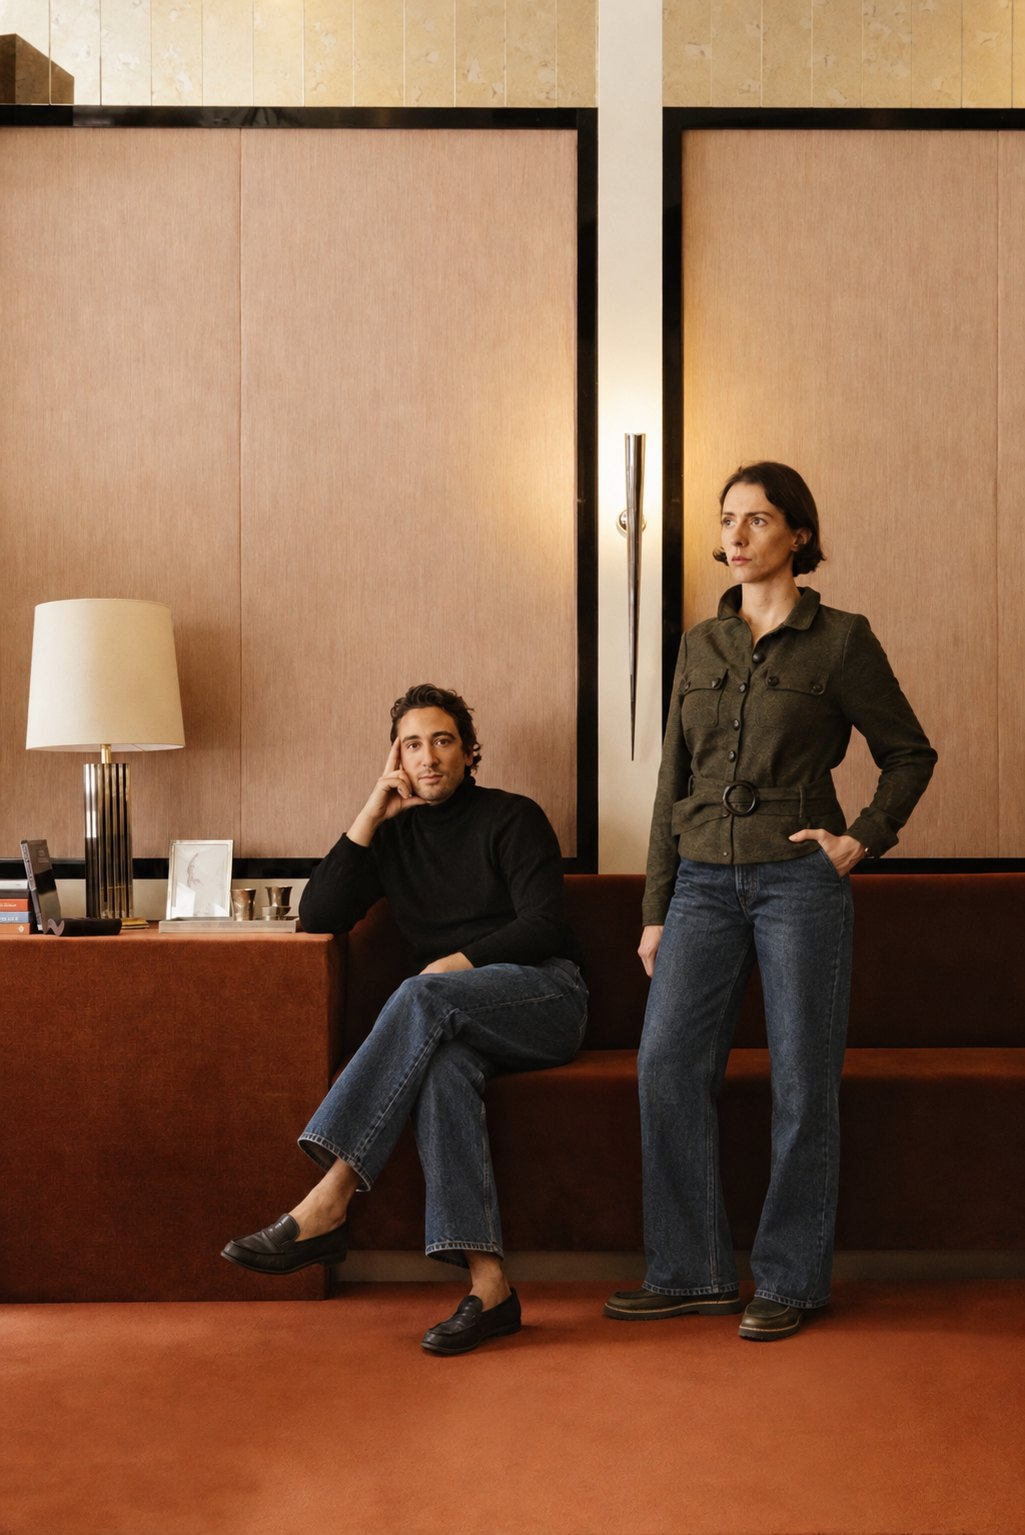
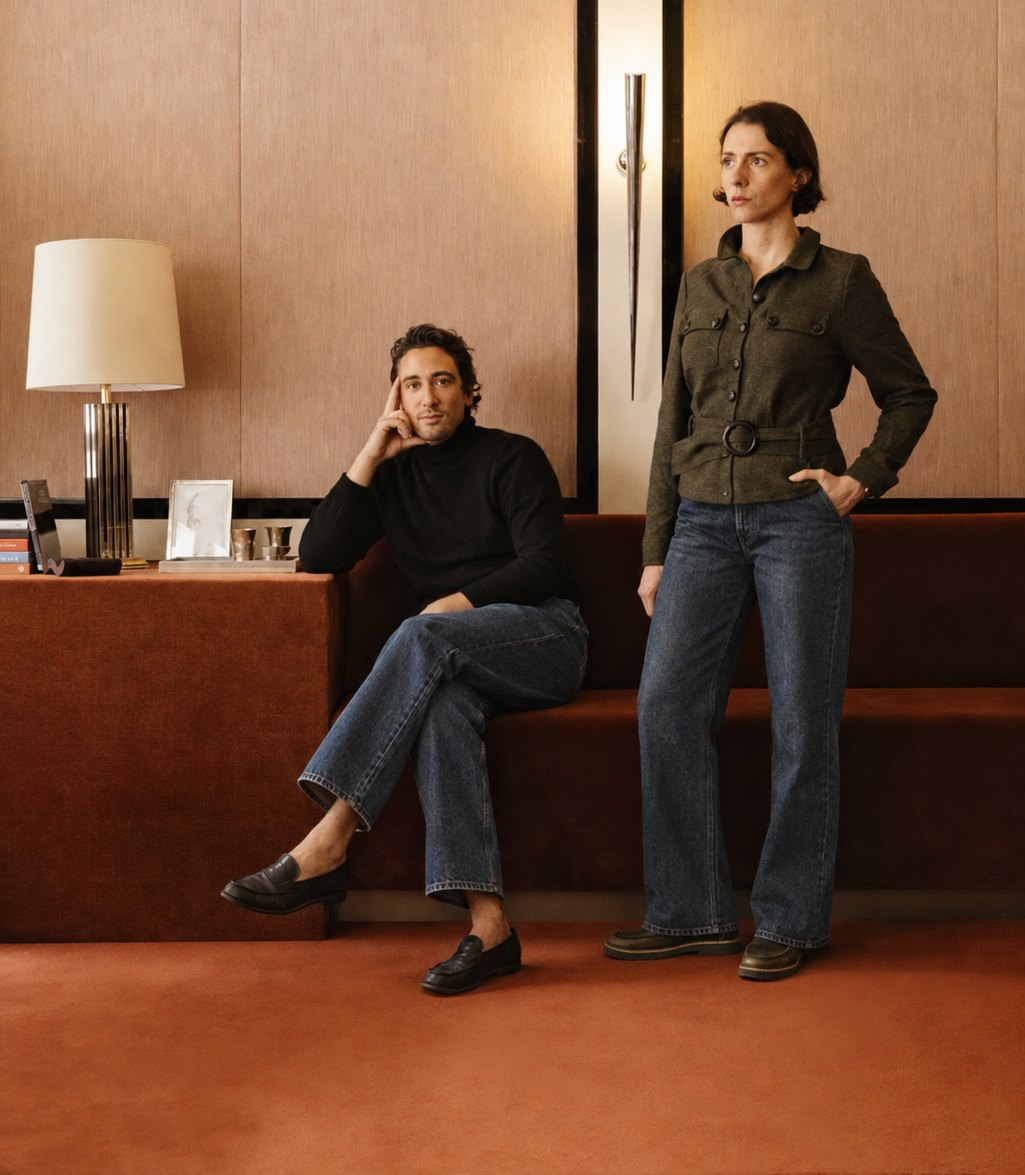
Crop top of hero image to reduce its height
Claude-Session: https://claude.ai/code/session_01U3e2zFzyu41HhH5VPkCFLJ

diff --git a/style.css b/style.css
@@ -196,7 +196,7 @@ p { margin: 0 0 1em; }
   min-height: 640px;
   max-height: 1100px;
   object-fit: cover;
-  object-position: 50% 60%;
+  object-position: 50% 50%;
 }
 .intro {
   display: flex;
@@ -325,7 +325,7 @@ p { margin: 0 0 1em; }
   .nav__side { gap: 1.1rem; }
   .icon-link svg { width: 24px; height: 24px; }
   .hero { grid-template-columns: 1fr; }
-  .hero__img { height: auto; min-height: 0; max-height: none; aspect-ratio: 1025 / 1535; }
+  .hero__img { height: auto; min-height: 0; max-height: none; aspect-ratio: 1025 / 1175; }
   .intro { padding: 56px 24px 64px; }
   .intro__text { font-size: 1.05rem; margin-top: 2.4rem; text-align: left; }
   .product { padding: 80px 0; }
